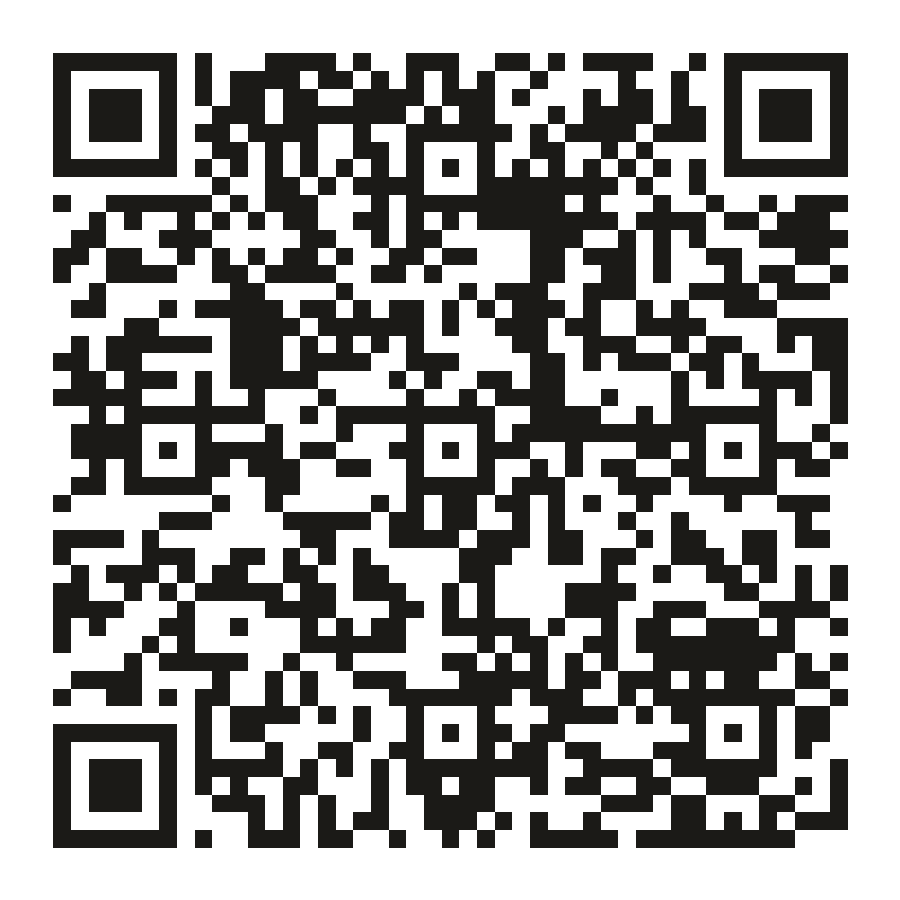
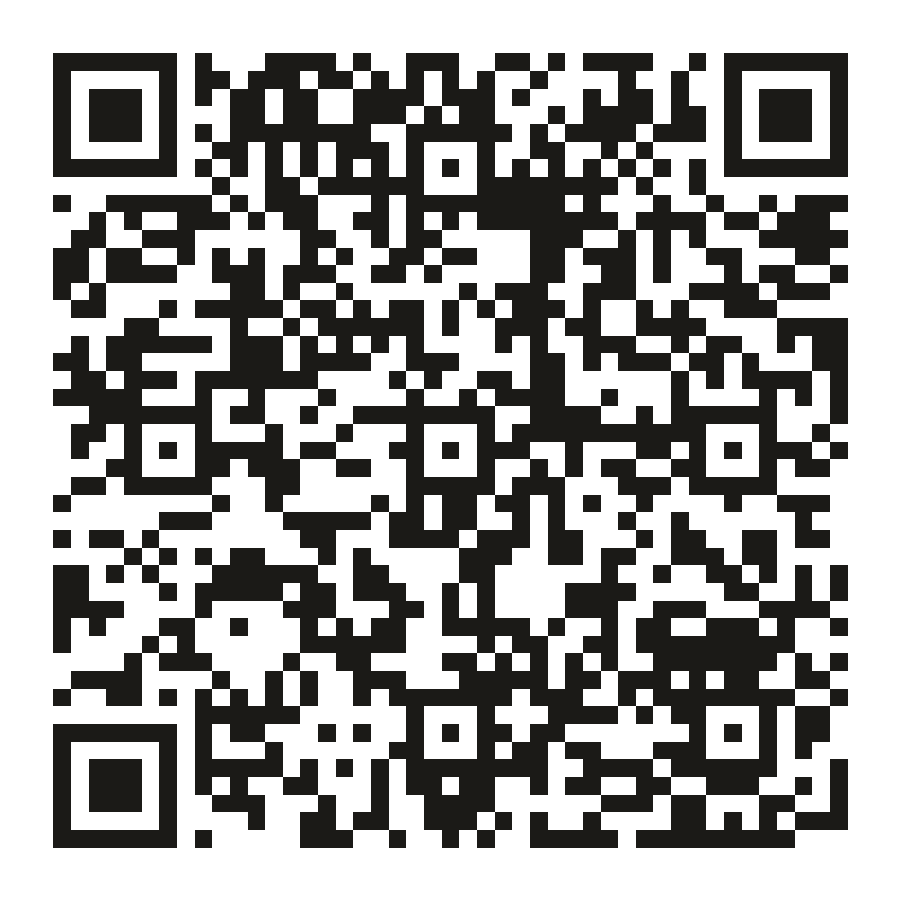
Update site (fa81f3b)

diff --git a/app.html b/app.html
@@ -155,7 +155,7 @@
           <p>If you have been approved, accept the invitation email from Expo first, then press
           the button. If Expo Go says the project is not viewable, you have not been added yet.
           That is what the form below is for.</p>
-          <a class="open" href="exp://u.expo.dev/692a1056-327b-4d67-9c71-01d09bb54379?runtime-version=exposdk%3A54.0.0&amp;channel-name=preview">Open in Expo Go</a>
+          <a class="open" href="exp://u.expo.dev/692a1056-327b-4d67-9c71-01d09bb54379?runtime-version=exposdk%3A57.0.0&amp;channel-name=preview">Open in Expo Go</a>
 
           <div class="qrwrap">
             <h4>If the button does nothing, use the code</h4>
